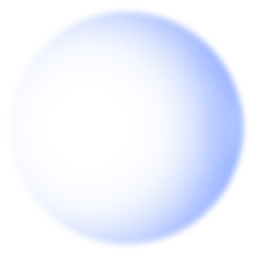
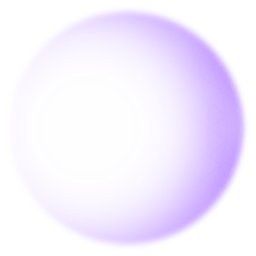
shields & armors

Changed region(s): [[0.5625, 0.0625, 0.9688, 0.9375]]

diff --git a/main/src/com/miloshpetrov/sol2/game/item/Shield.java b/main/src/com/miloshpetrov/sol2/game/item/Shield.java
@@ -85,7 +85,7 @@ public class Shield implements SolItem {
     myIdleTime = 0f;
     if (myLife > 0) {
       ShipHull hull = ship.getHull();
-      game.getPartMan().shieldSpark(game, pos, hull);
+      game.getPartMan().shieldSpark(game, pos, hull, myConfig.tex);
       game.getSoundMan().play(game, myConfig.absorbSound, pos, ship);
     }
     if (dmgType == DmgType.BULLET) dmg *= BULLET_DMG_FACTOR;
@@ -113,9 +113,10 @@ public class Shield implements SolItem {
     public final float myMaxIdleTime = 2;
     public final float regenSpd;
     public final TextureAtlas.AtlasRegion icon;
+    public TextureAtlas.AtlasRegion tex;
 
     private Config(int maxLife, String displayName, int price, String desc, SolSound absorbSound, SolSound regenSound,
-      TextureAtlas.AtlasRegion icon) {
+      TextureAtlas.AtlasRegion icon, TextureAtlas.AtlasRegion tex) {
       this.maxLife = maxLife;
       this.displayName = displayName;
       this.price = price;
@@ -123,6 +124,7 @@ public class Shield implements SolItem {
       this.absorbSound = absorbSound;
       this.regenSound = regenSound;
       this.icon = icon;
+      this.tex = tex;
       regenSpd = this.maxLife / 3;
       example = new Shield(this);
     }
@@ -140,8 +142,9 @@ public class Shield implements SolItem {
         SolSound absorbSound = soundMan.getSound(soundDir, configFile);
         soundDir = sh.getString("regenSound");
         SolSound regenSound = soundMan.getSound(soundDir, configFile);
-        TextureAtlas.AtlasRegion icon = texMan.getTex(sh.getString("iconDir"), null);
-        Config config = new Config(maxLife, displayName, price, desc, absorbSound, regenSound, icon);
+        TextureAtlas.AtlasRegion icon = texMan.getTex(TexMan.ICONS_DIR + sh.getString("icon"), configFile);
+        TextureAtlas.AtlasRegion tex = texMan.getTex(sh.getString("tex"), configFile);
+        Config config = new Config(maxLife, displayName, price, desc, absorbSound, regenSound, icon, tex);
         itemMan.registerItem(sh.name(), config.example);
       }
     }

diff --git a/main/src/com/miloshpetrov/sol2/game/item/Armor.java b/main/src/com/miloshpetrov/sol2/game/item/Armor.java
@@ -70,7 +70,7 @@ public class Armor implements SolItem {
     public final TextureAtlas.AtlasRegion icon;
     public final SolSound energyDmgSound;
 
-    private Config(String displayName, int price, float perc, String descBase, SolSound bulletDmgSound,
+    private Config(String displayName, int price, float perc, SolSound bulletDmgSound,
       TextureAtlas.AtlasRegion icon, SolSound energyDmgSound)
     {
       this.displayName = displayName;
@@ -78,7 +78,7 @@ public class Armor implements SolItem {
       this.perc = perc;
       this.icon = icon;
       this.energyDmgSound = energyDmgSound;
-      this.desc = String.format(descBase, (int)(perc * 100));
+      this.desc = "Reduces damage by " + (int)(perc * 100) + "%";
       this.bulletDmgSound = bulletDmgSound;
       this.example = new Armor(this);
     }
@@ -92,13 +92,12 @@ public class Armor implements SolItem {
         String displayName = sh.getString("displayName");
         int price = sh.getInt("price");
         float perc = sh.getFloat("perc");
-        String descBase = sh.getString("descBase");
         String bulletDmgSoundDir = sh.getString("bulletDmgSound");
         String energyDmgSoundDir = sh.getString("energyDmgSound");
         SolSound bulletDmgSound = soundMan.getSound(bulletDmgSoundDir, configFile);
         SolSound energyDmgSound = soundMan.getSound(energyDmgSoundDir, configFile);
-        TextureAtlas.AtlasRegion icon = texMan.getTex(sh.getString("iconDir"), null);
-        Config config = new Config(displayName, price, perc, descBase, bulletDmgSound, icon, energyDmgSound);
+        TextureAtlas.AtlasRegion icon = texMan.getTex(TexMan.ICONS_DIR + sh.getString("icon"), configFile);
+        Config config = new Config(displayName, price, perc, bulletDmgSound, icon, energyDmgSound);
         itemMan.registerItem(sh.name(), config.example);
       }
     }

diff --git a/main/src/com/miloshpetrov/sol2/game/particle/PartMan.java b/main/src/com/miloshpetrov/sol2/game/particle/PartMan.java
@@ -2,7 +2,6 @@ package com.miloshpetrov.sol2.game.particle;
 
 import com.badlogic.gdx.graphics.g2d.TextureAtlas;
 import com.badlogic.gdx.math.Vector2;
-import com.miloshpetrov.sol2.TexMan;
 import com.miloshpetrov.sol2.common.Col;
 import com.miloshpetrov.sol2.common.SolMath;
 import com.miloshpetrov.sol2.game.SolGame;
@@ -16,10 +15,8 @@ public class PartMan {
   public static final float EXPL_LIGHT_MAX_SZ = .4f;
   public static final float EXPL_LIGHT_MAX_FADE_TIME = .8f;
   public static final float SZ_TO_BLINK_COUNT = 18f;
-  private final TextureAtlas.AtlasRegion myShieldTex;
 
-  public PartMan(TexMan texMan) {
-    myShieldTex = texMan.getTex("misc/shield", null);
+  public PartMan() {
   }
 
   public void finish(SolGame game, ParticleSrc src, Vector2 basePos) {
@@ -43,11 +40,11 @@ public class PartMan {
     }
   }
 
-  public void shieldSpark(SolGame game, Vector2 collPos, ShipHull hull) {
+  public void shieldSpark(SolGame game, Vector2 collPos, ShipHull hull, TextureAtlas.AtlasRegion shieldTex) {
     Vector2 pos = hull.getPos();
     float angle = SolMath.angle(pos, collPos);
     float sz = hull.config.size * Shield.SIZE_PERC * 2;
-    blip(game, pos, angle, sz, .5f, hull.getSpd(), myShieldTex);
+    blip(game, pos, angle, sz, .5f, hull.getSpd(), shieldTex);
   }
 
   public void blip(SolGame game, Vector2 pos, float angle, float sz, float fadeTime, Vector2 spd,

diff --git a/main/src/com/miloshpetrov/sol2/game/SolGame.java b/main/src/com/miloshpetrov/sol2/game/SolGame.java
@@ -95,7 +95,7 @@ public class SolGame {
     myObjMan = new ObjMan(contactListener, myFractionMan);
     myGridDrawer = new GridDrawer(texMan);
     myChunkMan = new ChunkMan(myHullConfigs, myTexMan);
-    myPartMan = new PartMan(myTexMan);
+    myPartMan = new PartMan();
     myAsteroidBuilder = new AsteroidBuilder(myTexMan);
     myLootBuilder = new LootBuilder();
     myFarBgMan = new FarBgMan();

diff --git a/main/src/com/miloshpetrov/sol2/game/ship/SolShip.java b/main/src/com/miloshpetrov/sol2/game/ship/SolShip.java
@@ -324,8 +324,8 @@ public class SolShip implements SolObj {
       dmg = myShield.absorb(game, dmg, pos, this, dmgType);
     }
     if (dmg <= 0) return;
-    if (dmgType == DmgType.ENERGY) dmg *= ENERGY_DMG_FACTOR;
     if (myArmor != null) {
+      if (dmgType == DmgType.ENERGY) dmg *= ENERGY_DMG_FACTOR;
       dmg *= (1 - myArmor.getPerc());
     }
     playDmgSound(game, pos, dmgType);
